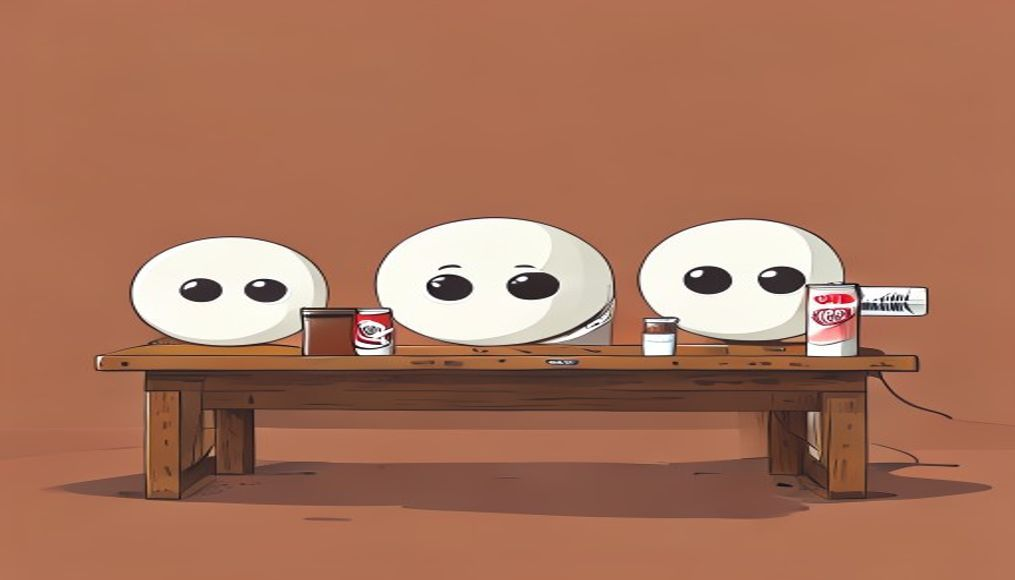
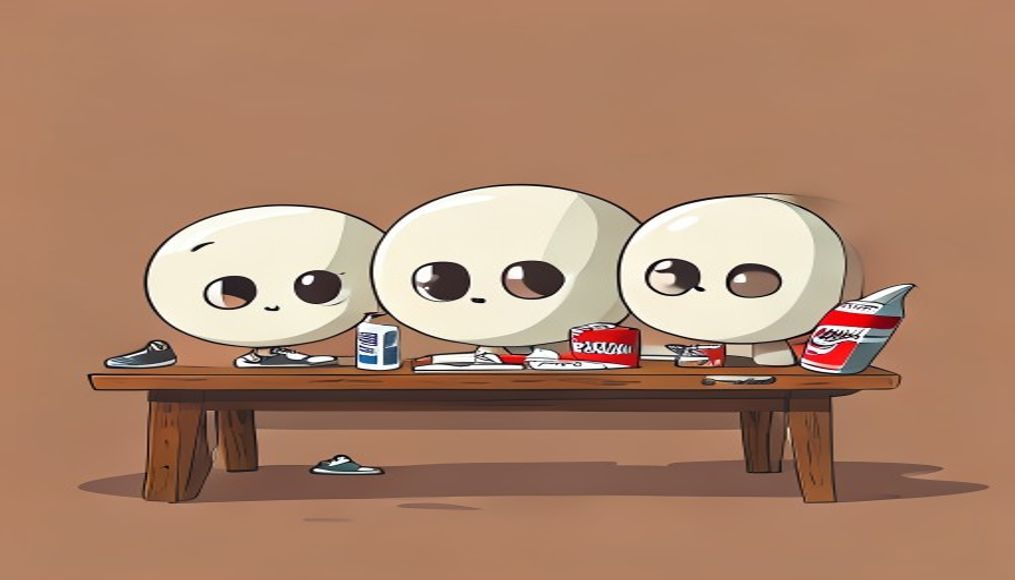
Switch to flux-anime model, refine style prefix to match HeyHistorically references
https://claude.ai/code/session_011fyd8S6yDL69MHubMLyEoW

diff --git a/generate_images.py b/generate_images.py
@@ -6,11 +6,30 @@ import urllib.parse
 from pathlib import Path
 
 # Pollinations.ai — free, no API key required
-POLLINATIONS_URL = "https://image.pollinations.ai/prompt/{prompt}?width=1344&height=768&model=flux&nologo=true&seed={seed}"
+POLLINATIONS_URL = "https://image.pollinations.ai/prompt/{prompt}?width=1344&height=768&model=flux-anime&nologo=true&seed={seed}"
 OUTPUT_DIR = "generated_images"
 PROGRESS_FILE = "progress.json"
 
-STYLE_PREFIX = "2D flat cartoon animation, HeyHistorically YouTube style, characters with round white oval heads, tiny dot eyes and minimal line mouth, thick bold black outlines on every shape, flat solid colors absolutely no gradients no shading, clean flat simple background, very limited color palette, Flash animation aesthetic, no photorealism, no 3D rendering, no realistic textures, "
+# Style based on HeyHistorically / Extra History YouTube cartoon style:
+# - very large round white/cream oval heads, small body, big-head chibi proportions
+# - simple facial features: thin arched eyebrows, small oval or slit eyes, simple curved mouth
+# - thick bold black outlines on every shape and edge
+# - flat solid block colors, zero gradients, zero shading, zero textures
+# - limited palette (4-6 colors per scene), muted earthy tones
+# - flat simple backgrounds with clean geometric shapes
+# - 2D vector Flash cartoon aesthetic, like Homestar Runner or early Newgrounds
+STYLE_PREFIX = (
+    "2D vector cartoon illustration, HeyHistorically YouTube style, "
+    "characters with oversized round white oval head and small round body, "
+    "large head small body chibi proportions, "
+    "simple thin eyebrows, small oval eyes, simple curved line mouth, "
+    "thick bold black outlines on every single shape, "
+    "flat solid block colors with absolutely no gradients no shading no textures, "
+    "very limited muted color palette 4 to 6 colors only, "
+    "flat simple cartoon background with clean shapes, "
+    "2D Flash animation aesthetic, vector art style, "
+    "no photorealism, no 3D, no anime, no manga, no painting, "
+)
 
 PROMPTS = [
     # HOOK 001-018
